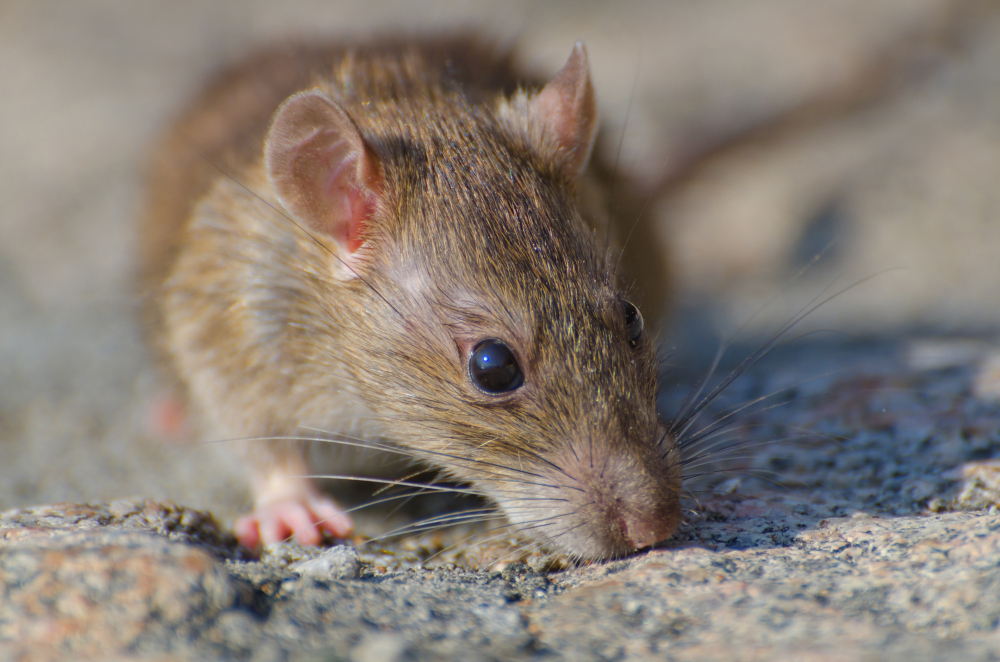
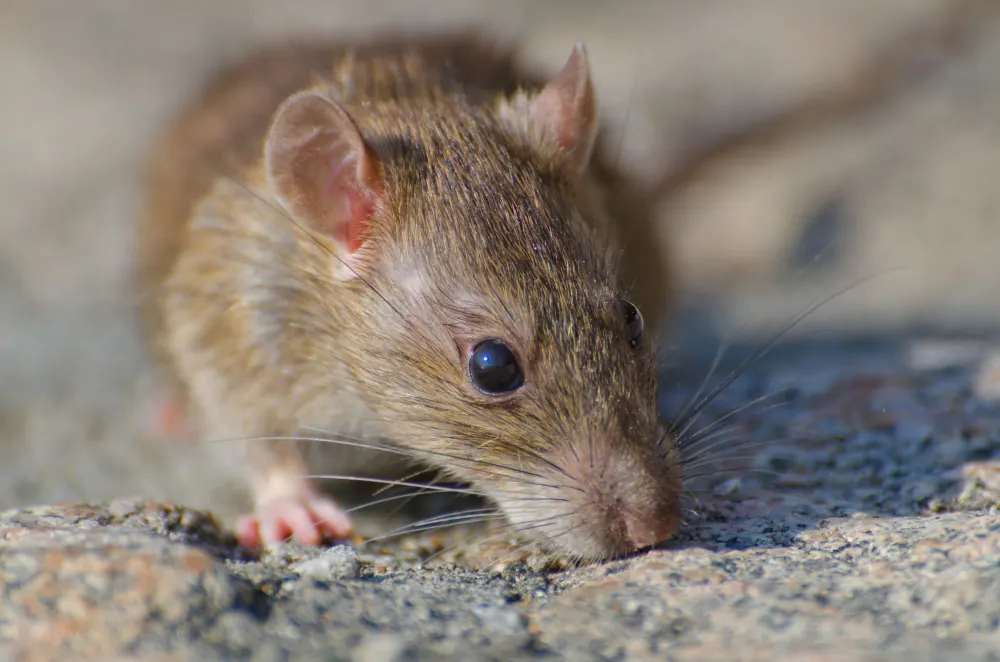
Speed up the blog and contact pages

Changed region(s): [[0.558, 0.423, 0.589, 0.5136]]

diff --git a/components/QuoteForm.tsx b/components/QuoteForm.tsx
@@ -1,7 +1,6 @@
 "use client";
 
 import { useMemo, useRef, useState } from "react";
-import { upload } from "@vercel/blob/client";
 import { site, services, serviceAreas } from "@/lib/site";
 import { Check, Arrow, ServiceIcon } from "@/components/Icons";
 import AddressAutocomplete from "@/components/AddressAutocomplete";
@@ -86,6 +85,9 @@ export default function QuoteForm({ initial }: { initial?: QuotePrefill }) {
     const photoUrls: string[] = [];
     const photoErrors: string[] = [];
     if (photos.length) {
+      // load the Blob client only when there's actually a photo to send, so it
+      // stays out of the initial bundle on every page
+      const { upload } = await import("@vercel/blob/client");
       const results = await Promise.allSettled(
         photos.map((p) =>
           upload(p.file.name, p.file, {

diff --git a/components/blog/BlogFeed.tsx b/components/blog/BlogFeed.tsx
@@ -110,8 +110,8 @@ export default function BlogFeed({
       </div>
 
       <div className="mt-12 grid gap-6 md:grid-cols-2 lg:grid-cols-3">
-        {filtered.map((post, i) => (
-          <FeedCard key={post.slug} post={post} priority={i < 3} />
+        {filtered.map((post) => (
+          <FeedCard key={post.slug} post={post} />
         ))}
       </div>
     </>